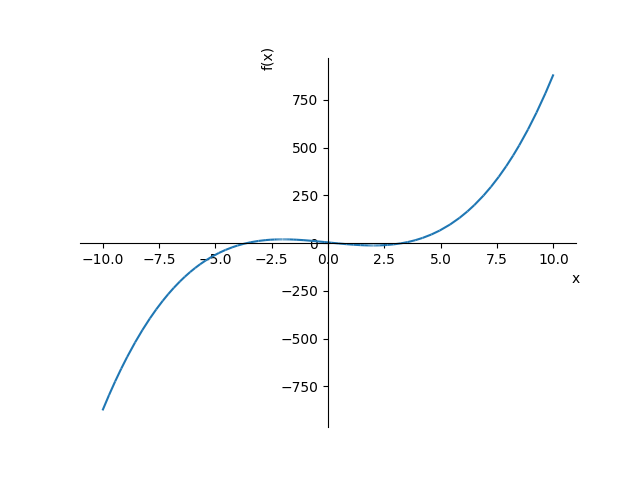
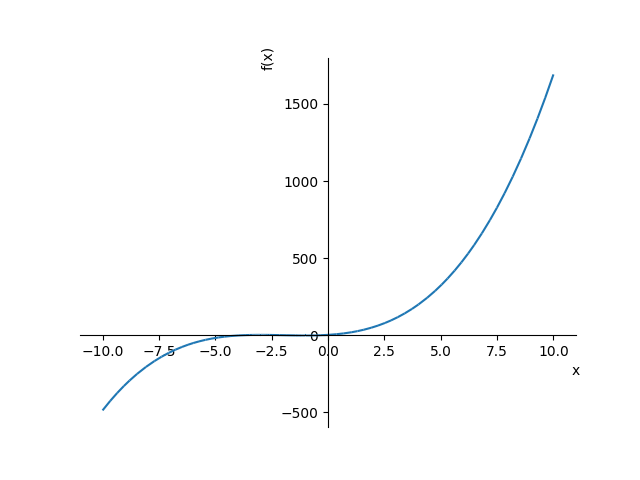
Ну немного доделал

diff --git a/static/css/style_for_math.css b/static/css/style_for_math.css
@@ -5,6 +5,6 @@
 }
 
 body{
-    max-width: 570px;
+    max-width: 650px;
     margin: auto;
 }

diff --git a/main.py b/main.py
@@ -233,15 +233,16 @@ def math_task_1():
         print(f)
 
         try:
+            dif = sympy.diff(f)
             result_ = []
             result_2 = []
-            some = sympy.solvers.inequalities.solve_poly_inequality(Poly(sympy.diff(f), x, domain='ZZ'),
+            some = sympy.solvers.inequalities.solve_poly_inequality(Poly(dif, x, domain='ZZ'),
                                                              '!=')
             some_minus = sympy.solvers.inequalities.solve_poly_inequality(
-                Poly(sympy.diff(f), x, domain='ZZ'),
+                Poly(dif, x, domain='ZZ'),
                 '<')
             some_plus = sympy.solvers.inequalities.solve_poly_inequality(
-                Poly(sympy.diff(f), x, domain='ZZ'),
+                Poly(dif, x, domain='ZZ'),
                 '>')
             for el in some:
                 if el in some_minus:
@@ -253,11 +254,38 @@ def math_task_1():
             print(result_)
             result += '$$' + sympy.latex(some) + '$$\n'
             result += '$$' + '\hspace{33pt}'.join(result_) + '$$\n'
-            result += '$$' + '\hspace{0pt}'.join(result_2) + '$$'
+            result += '$$' + '\hspace{33pt}'.join(result_2) + '$$'
             result += '$$' + '\hspace{3pt}'.join(list(findExtremums(f, x))) + '$$'
         except Exception:
             result += '$$-$$\n'
         result += r'$$ \lim_{x \to \infty} ' + sympy.latex(f) + ' = ' + sympy.latex(sympy.limit(f, x, oo)) + '$$'
+        try:
+            dif = sympy.diff(sympy.diff(f))
+            result_ = []
+            result_2 = []
+            some = sympy.solvers.inequalities.solve_poly_inequality(Poly(dif, x, domain='ZZ'),
+                                                             '!=')
+            some_minus = sympy.solvers.inequalities.solve_poly_inequality(
+                Poly(dif, x, domain='ZZ'),
+                '<')
+            some_plus = sympy.solvers.inequalities.solve_poly_inequality(
+                Poly(dif, x, domain='ZZ'),
+                '>')
+            for el in some:
+                if el in some_minus:
+                    result_.append('-')
+                    result_2.append(r'\frown')
+                elif el in some_plus:
+                    result_.append('+')
+                    result_2.append(r'\smile')
+            print(result_)
+            result += '$$' + sympy.latex(some) + '$$\n'
+            result += '$$' + '\hspace{33pt}'.join(result_) + '$$\n'
+            result += '$$' + '\hspace{27pt}'.join(result_2) + '$$'
+            result += '$$' + sympy.latex(sympy.solvers.inequalities.solve_poly_inequality(Poly(dif, x, domain='ZZ'),
+                                                             '==')) + '$$'
+        except Exception:
+            result += '$$-$$\n'
         new_task = Task()
         if db_sess.query(Task).first() is None:
             new_task.id = 1
